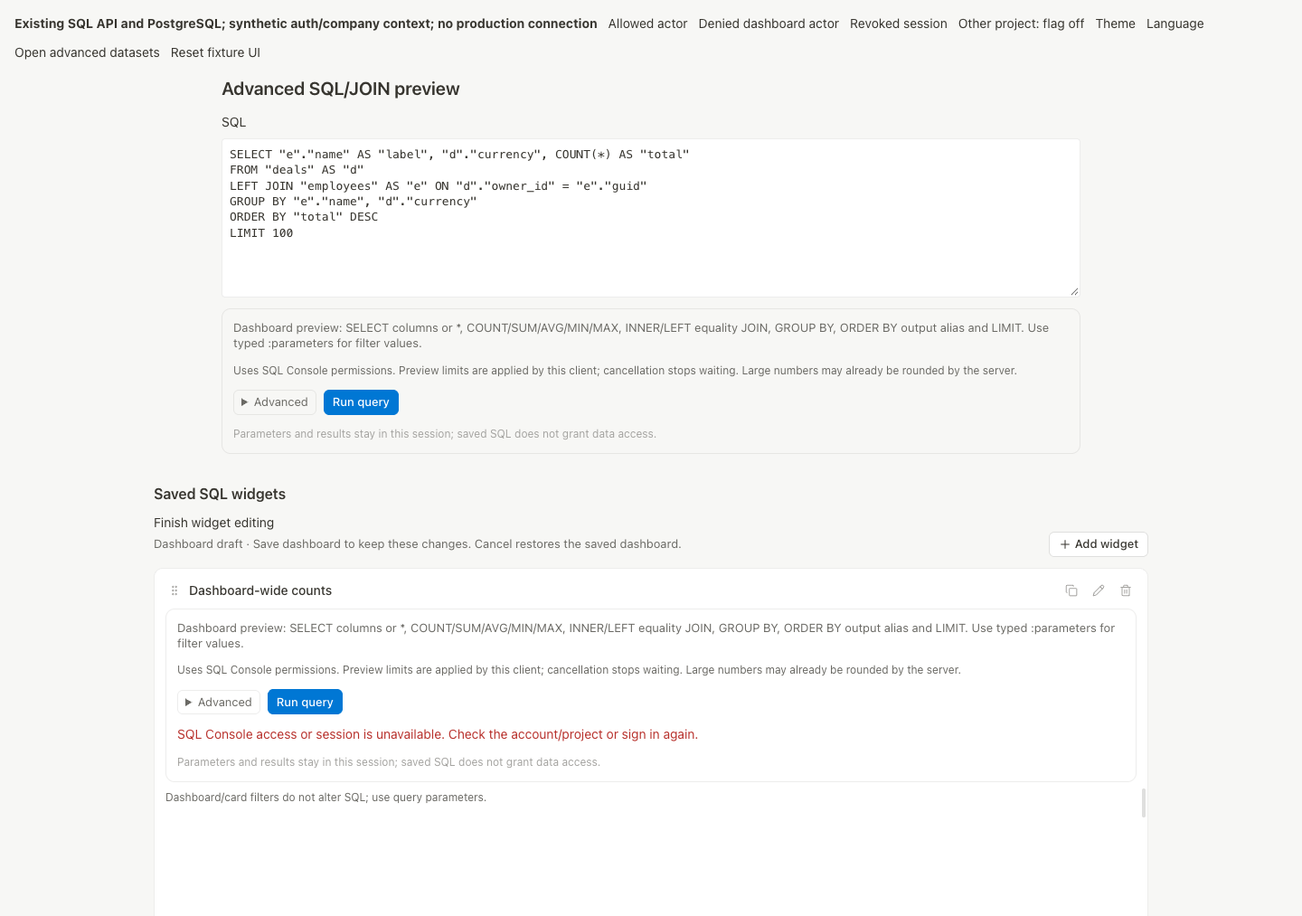
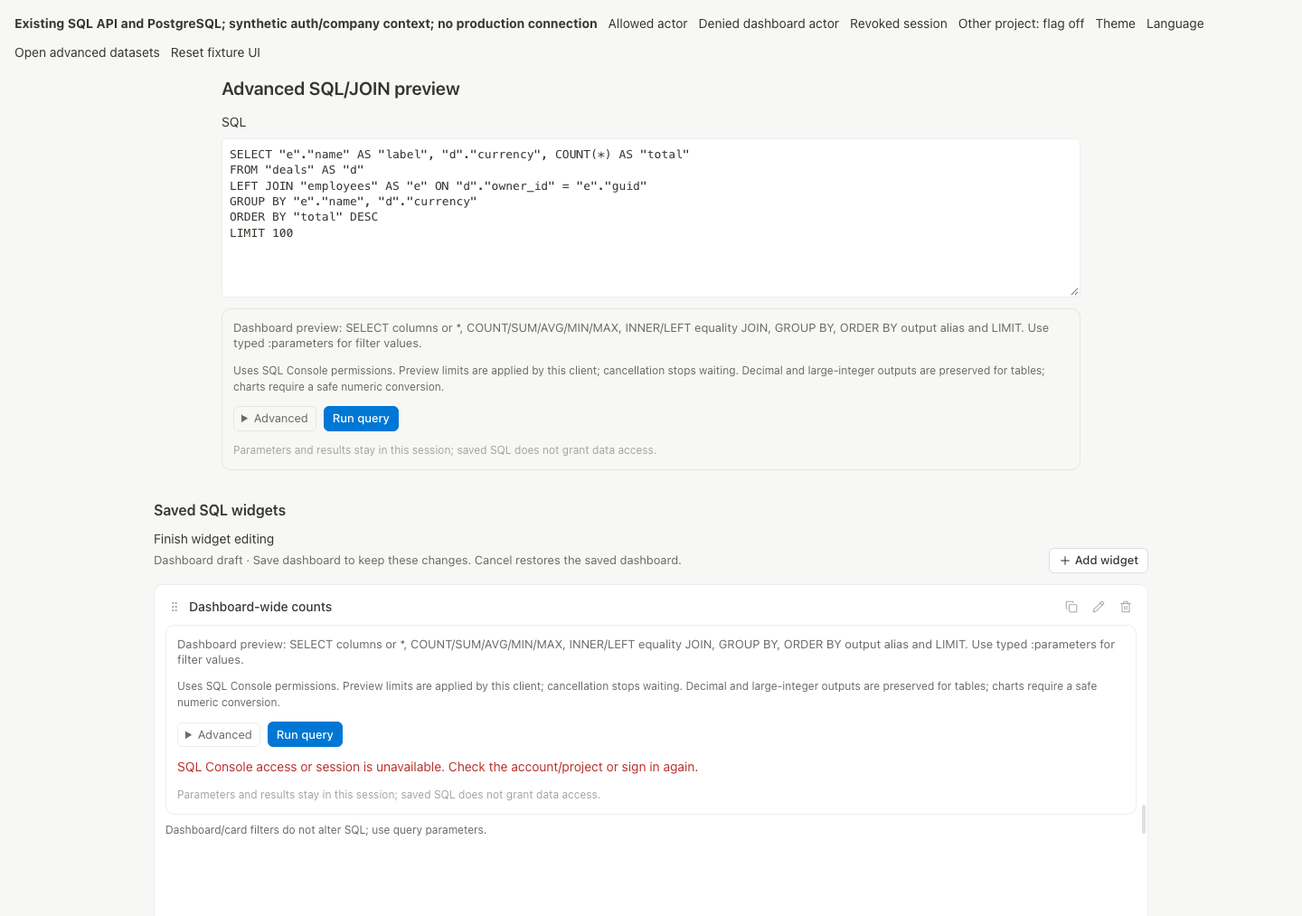
fix: preserve exact numeric SQL results without backend changes

diff --git a/src/features/dashboard/model/sql-copy.ts b/src/features/dashboard/model/sql-copy.ts
@@ -1,12 +1,12 @@
 import type { SQLSupportIssue } from "./sql-query-guidance";
 
 const en = {
-  legacyNotice: "Uses SQL Console permissions. Preview limits are applied by this client; cancellation stops waiting. Large numbers may already be rounded by the server.",
-  datasetHint: "Reuse permitted table sources or advanced SQL queries across widgets. SQL uses your existing SQL Console access.", sqlSource: "SQL (advanced)", title: "SQL result", checking: "Checking execution access…", disabled: "Sign in and select a project/environment to run SQL. You can keep the draft.", run: "Run query", cancel: "Cancel query", table: "Table", chart: "Chart", bar: "Bar", line: "Line", donut: "Donut", group: "Category", measure: "Value", value: "Value", returned: "rows returned", truncated: "Result reached the row limit; refine the query.", limit: "Row limit", empty: "No rows matched this query.", missing: "Provide a value for every parameter.", precision: "These values cannot be shown accurately in a chart. The table shows the values received from the server.", chartHint: "Choose a category and a numeric value returned by SQL.", scope: "Access or project changed. Run the query again.", supported: "Dashboard preview: SELECT columns or *, COUNT/SUM/AVG/MIN/MAX, INNER/LEFT equality JOIN, GROUP BY, ORDER BY output alias and LIMIT. Use typed :parameters for filter values.", examples: "Supported examples", tableExample: "Select columns", totalsExample: "Totals by category", joinExample: "LEFT JOIN totals", grain: "JOIN can repeat source rows. Group at the required level and keep currencies separate.", source: "Parameters and results stay in this session; saved SQL does not grant data access.", syntax: {
+  legacyNotice: "Uses SQL Console permissions. Preview limits are applied by this client; cancellation stops waiting. Decimal and large-integer outputs are preserved for tables; charts require a safe numeric conversion.",
+  datasetHint: "Reuse permitted table sources or advanced SQL queries across widgets. SQL uses your existing SQL Console access.", sqlSource: "SQL (advanced)", title: "SQL result", checking: "Checking execution access…", disabled: "Sign in and select a project/environment to run SQL. You can keep the draft.", run: "Run query", cancel: "Cancel query", table: "Table", chart: "Chart", bar: "Bar", line: "Line", donut: "Donut", group: "Category", measure: "Value", value: "Value", returned: "rows returned", truncated: "Result reached the row limit; refine the query.", limit: "Row limit", empty: "No rows matched this query.", missing: "Provide a value for every parameter.", precision: "These values cannot be shown accurately in a chart. Use the table to retain the SQL numeric text.", chartHint: "Choose a category and a numeric value returned by SQL.", scope: "Access or project changed. Run the query again.", supported: "Dashboard preview: SELECT columns or *, COUNT/SUM/AVG/MIN/MAX, INNER/LEFT equality JOIN, GROUP BY, ORDER BY output alias and LIMIT. Use typed :parameters for filter values.", examples: "Supported examples", tableExample: "Select columns", totalsExample: "Totals by category", joinExample: "LEFT JOIN totals", grain: "JOIN can repeat source rows. Group at the required level and keep currencies separate.", source: "Parameters and results stay in this session; saved SQL does not grant data access.", syntax: {
     star: "SELECT * is not supported. List the fields you want to return; COUNT(*) is supported.", cte: "WITH/CTE queries are not supported in this version. Use one SELECT over project tables.", function: "Only COUNT, SUM, AVG, MIN and MAX are supported. Other SQL functions cannot run here.", nested: "Subqueries are not supported. Use a direct INNER or LEFT JOIN.", write: "This dashboard only sends SELECT previews. The existing SQL Console server has broader access.", clause: "This clause is not supported. Use AND filters, GROUP BY, ORDER BY output aliases and LIMIT.", literal: "Filter values must use typed :parameters instead of SQL string literals.",
   } satisfies Record<SQLSupportIssue, string>,
 };
 type Copy = typeof en;
-const ru: Copy = { ...en, legacyNotice: "Использует права SQL-консоли. Лимит предпросмотра задаёт клиент; отмена прекращает ожидание. Сервер мог уже округлить большие числа.", datasetHint: "Используйте разрешённые таблицы или SQL-запросы в нескольких виджетах. SQL использует ваш существующий доступ к SQL-консоли.", sqlSource: "SQL (расширенный)", title: "Результат SQL", checking: "Проверяем доступ к выполнению…", disabled: "Войдите и выберите проект/окружение для SQL. Черновик можно сохранить.", run: "Выполнить запрос", cancel: "Отменить запрос", table: "Таблица", chart: "График", bar: "Столбцы", line: "Линия", donut: "Кольцо", group: "Категория", measure: "Значение", value: "Значение", returned: "строк получено", truncated: "Достигнут лимит строк; уточните запрос.", limit: "Лимит строк", empty: "По запросу нет строк.", missing: "Задайте значение каждому параметру.", precision: "График потеряет точность этих чисел. Таблица показывает значения, полученные от сервера.", chartHint: "Выберите категорию и числовое значение из результата SQL.", scope: "Доступ или проект изменился. Выполните запрос заново.", supported: "Предпросмотр: SELECT с колонками или *, COUNT/SUM/AVG/MIN/MAX, INNER/LEFT JOIN по равенству, GROUP BY, ORDER BY псевдонима результата и LIMIT. Значения фильтров задаются типизированными :параметрами.", examples: "Примеры поддерживаемых запросов", tableExample: "Выбрать колонки", totalsExample: "Итоги по категории", joinExample: "Итоги с LEFT JOIN", grain: "JOIN может повторять исходные строки. Выберите нужный уровень группировки и разделяйте валюты.", source: "Параметры и результаты остаются в этом сеансе; сохранённый SQL не даёт прав на данные.", syntax: { star: "SELECT * не поддерживается. Перечислите нужные поля; COUNT(*) доступен.", cte: "WITH/CTE пока не поддерживаются. Используйте один SELECT по таблицам проекта.", function: "Доступны только COUNT, SUM, AVG, MIN и MAX. Другие SQL-функции здесь не выполняются.", nested: "Подзапросы пока не поддерживаются. Используйте прямой INNER или LEFT JOIN.", write: "Этот дашборд отправляет только SELECT. Существующий сервер SQL-консоли имеет более широкий доступ.", clause: "Эта конструкция пока не поддерживается. Используйте AND, GROUP BY, ORDER BY псевдонима результата и LIMIT.", literal: "Для значений фильтров используйте типизированные :параметры вместо строковых литералов SQL." } };
-const uz: Copy = { ...en, legacyNotice: "SQL Console huquqlari ishlatiladi. Preview limitini klient qo‘yadi; bekor qilish kutishni to‘xtatadi. Server katta sonlarni yaxlitlagan bo‘lishi mumkin.", datasetHint: "Ruxsat etilgan jadval yoki SQL so‘rovlarini bir nechta vidjetda ishlating. SQL mavjud SQL Console huquqlaringiz bilan bajariladi.", sqlSource: "SQL (kengaytirilgan)", title: "SQL natijasi", checking: "Bajarish huquqi tekshirilmoqda…", disabled: "SQL uchun tizimga kiring va loyiha/muhitni tanlang. Qoralamani saqlash mumkin.", run: "So‘rovni bajarish", cancel: "So‘rovni bekor qilish", table: "Jadval", chart: "Grafik", bar: "Ustunlar", line: "Chiziq", donut: "Halqa", group: "Kategoriya", measure: "Qiymat", value: "Qiymat", returned: "qator qaytdi", truncated: "Qator limiti to‘ldi; so‘rovni aniqlashtiring.", limit: "Qator limiti", empty: "So‘rovga mos qator yo‘q.", missing: "Har bir parametrga qiymat kiriting.", precision: "Grafik bu sonlarning aniqligini yo‘qotadi. Jadval serverdan olingan qiymatlarni ko‘rsatadi.", chartHint: "SQL natijasidan kategoriya va sonli qiymatni tanlang.", scope: "Huquq yoki loyiha o‘zgardi. So‘rovni qayta bajaring.", supported: "Preview uchun SELECT ustunlari yoki *, COUNT/SUM/AVG/MIN/MAX, tenglik bo‘yicha INNER/LEFT JOIN, GROUP BY, natija nomi bo‘yicha ORDER BY va LIMIT qo‘llanadi. Filtr qiymatlari turlangan :parametrlar orqali beriladi.", examples: "Qo‘llanadigan so‘rov namunalari", tableExample: "Ustunlarni tanlash", totalsExample: "Kategoriya bo‘yicha jami", joinExample: "LEFT JOIN orqali jami", grain: "JOIN boshlang‘ich qatorlarni takrorlashi mumkin. Kerakli darajada guruhlang va valyutalarni ajrating.", source: "Parametr va natijalar shu seansda qoladi; saqlangan SQL ma’lumotga huquq bermaydi.", syntax: { star: "SELECT * qo‘llanmaydi. Kerakli maydonlarni sanang; COUNT(*) ishlaydi.", cte: "WITH/CTE hozircha qo‘llanmaydi. Loyiha jadvallari bo‘yicha bitta SELECT yozing.", function: "Faqat COUNT, SUM, AVG, MIN va MAX ishlaydi. Boshqa SQL funksiyalari bu yerda bajarilmaydi.", nested: "Ichki so‘rovlar hozircha qo‘llanmaydi. To‘g‘ridan-to‘g‘ri INNER yoki LEFT JOIN ishlating.", write: "Bu dashboard faqat SELECT yuboradi. Mavjud SQL Console serveri kengroq huquqqa ega.", clause: "Bu konstruksiya hozircha qo‘llanmaydi. AND, GROUP BY, natija nomi bo‘yicha ORDER BY va LIMIT ishlating.", literal: "Filtr qiymatlari uchun SQL matn qiymatlari o‘rniga turlangan :parametrlarni ishlating." } };
+const ru: Copy = { ...en, legacyNotice: "Использует права SQL-консоли. Лимит предпросмотра задаёт клиент; отмена прекращает ожидание. Десятичные и большие целые значения сохраняются для таблиц; график требует безопасного преобразования.", datasetHint: "Используйте разрешённые таблицы или SQL-запросы в нескольких виджетах. SQL использует ваш существующий доступ к SQL-консоли.", sqlSource: "SQL (расширенный)", title: "Результат SQL", checking: "Проверяем доступ к выполнению…", disabled: "Войдите и выберите проект/окружение для SQL. Черновик можно сохранить.", run: "Выполнить запрос", cancel: "Отменить запрос", table: "Таблица", chart: "График", bar: "Столбцы", line: "Линия", donut: "Кольцо", group: "Категория", measure: "Значение", value: "Значение", returned: "строк получено", truncated: "Достигнут лимит строк; уточните запрос.", limit: "Лимит строк", empty: "По запросу нет строк.", missing: "Задайте значение каждому параметру.", precision: "График потеряет точность этих чисел. В таблице сохраняется числовой текст SQL.", chartHint: "Выберите категорию и числовое значение из результата SQL.", scope: "Доступ или проект изменился. Выполните запрос заново.", supported: "Предпросмотр: SELECT с колонками или *, COUNT/SUM/AVG/MIN/MAX, INNER/LEFT JOIN по равенству, GROUP BY, ORDER BY псевдонима результата и LIMIT. Значения фильтров задаются типизированными :параметрами.", examples: "Примеры поддерживаемых запросов", tableExample: "Выбрать колонки", totalsExample: "Итоги по категории", joinExample: "Итоги с LEFT JOIN", grain: "JOIN может повторять исходные строки. Выберите нужный уровень группировки и разделяйте валюты.", source: "Параметры и результаты остаются в этом сеансе; сохранённый SQL не даёт прав на данные.", syntax: { star: "SELECT * не поддерживается. Перечислите нужные поля; COUNT(*) доступен.", cte: "WITH/CTE пока не поддерживаются. Используйте один SELECT по таблицам проекта.", function: "Доступны только COUNT, SUM, AVG, MIN и MAX. Другие SQL-функции здесь не выполняются.", nested: "Подзапросы пока не поддерживаются. Используйте прямой INNER или LEFT JOIN.", write: "Этот дашборд отправляет только SELECT. Существующий сервер SQL-консоли имеет более широкий доступ.", clause: "Эта конструкция пока не поддерживается. Используйте AND, GROUP BY, ORDER BY псевдонима результата и LIMIT.", literal: "Для значений фильтров используйте типизированные :параметры вместо строковых литералов SQL." } };
+const uz: Copy = { ...en, legacyNotice: "SQL Console huquqlari ishlatiladi. Preview limitini klient qo‘yadi; bekor qilish kutishni to‘xtatadi. O‘nli va katta butun natijalar jadval uchun saqlanadi; grafik xavfsiz sonli o‘tkazishni talab qiladi.", datasetHint: "Ruxsat etilgan jadval yoki SQL so‘rovlarini bir nechta vidjetda ishlating. SQL mavjud SQL Console huquqlaringiz bilan bajariladi.", sqlSource: "SQL (kengaytirilgan)", title: "SQL natijasi", checking: "Bajarish huquqi tekshirilmoqda…", disabled: "SQL uchun tizimga kiring va loyiha/muhitni tanlang. Qoralamani saqlash mumkin.", run: "So‘rovni bajarish", cancel: "So‘rovni bekor qilish", table: "Jadval", chart: "Grafik", bar: "Ustunlar", line: "Chiziq", donut: "Halqa", group: "Kategoriya", measure: "Qiymat", value: "Qiymat", returned: "qator qaytdi", truncated: "Qator limiti to‘ldi; so‘rovni aniqlashtiring.", limit: "Qator limiti", empty: "So‘rovga mos qator yo‘q.", missing: "Har bir parametrga qiymat kiriting.", precision: "Grafik bu sonlarning aniqligini yo‘qotadi. SQL sonli matnini saqlash uchun jadvaldan foydalaning.", chartHint: "SQL natijasidan kategoriya va sonli qiymatni tanlang.", scope: "Huquq yoki loyiha o‘zgardi. So‘rovni qayta bajaring.", supported: "Preview uchun SELECT ustunlari yoki *, COUNT/SUM/AVG/MIN/MAX, tenglik bo‘yicha INNER/LEFT JOIN, GROUP BY, natija nomi bo‘yicha ORDER BY va LIMIT qo‘llanadi. Filtr qiymatlari turlangan :parametrlar orqali beriladi.", examples: "Qo‘llanadigan so‘rov namunalari", tableExample: "Ustunlarni tanlash", totalsExample: "Kategoriya bo‘yicha jami", joinExample: "LEFT JOIN orqali jami", grain: "JOIN boshlang‘ich qatorlarni takrorlashi mumkin. Kerakli darajada guruhlang va valyutalarni ajrating.", source: "Parametr va natijalar shu seansda qoladi; saqlangan SQL ma’lumotga huquq bermaydi.", syntax: { star: "SELECT * qo‘llanmaydi. Kerakli maydonlarni sanang; COUNT(*) ishlaydi.", cte: "WITH/CTE hozircha qo‘llanmaydi. Loyiha jadvallari bo‘yicha bitta SELECT yozing.", function: "Faqat COUNT, SUM, AVG, MIN va MAX ishlaydi. Boshqa SQL funksiyalari bu yerda bajarilmaydi.", nested: "Ichki so‘rovlar hozircha qo‘llanmaydi. To‘g‘ridan-to‘g‘ri INNER yoki LEFT JOIN ishlating.", write: "Bu dashboard faqat SELECT yuboradi. Mavjud SQL Console serveri kengroq huquqqa ega.", clause: "Bu konstruksiya hozircha qo‘llanmaydi. AND, GROUP BY, natija nomi bo‘yicha ORDER BY va LIMIT ishlating.", literal: "Filtr qiymatlari uchun SQL matn qiymatlari o‘rniga turlangan :parametrlarni ishlating." } };
 export function sqlCopy(language: string): Copy { return language.startsWith("ru") ? ru : language.startsWith("uz") ? uz : en; }

diff --git a/src/features/dashboard/api/query-execution.test.ts b/src/features/dashboard/api/query-execution.test.ts
@@ -9,18 +9,21 @@ test("dashboard reuses existing SQL endpoint and binds values separately", async
   const post = vi.spyOn(api, "post").mockResolvedValue({ rows: [{ currency: "USD" }], rows_affected: 1, types: { currency: "text" } });
   const controller = new AbortController();
   expect((await executeDashboardQuery(input, controller.signal)).rows).toEqual([{ currency: "USD" }]);
-  const [path, body, options] = post.mock.calls[0]!;
+  expect(post).toHaveBeenCalledTimes(2);
+  const [path, body, options] = post.mock.calls[1]!;
+  expect((post.mock.calls[0]?.[1] as { sql: string }).sql).toContain('AS "dashboard_types" LIMIT 0');
   expect(path).toBe("/v1/custom-endpoints/exec-query");
   expect(body).toEqual({ sql: 'SELECT * FROM (\nSELECT currency FROM deals WHERE currency = $1::text\n) AS "dashboard_preview" LIMIT 101', params: [input.parameters[0]!.value] });
-  expect(options).toEqual({ skipAuthRefresh: true, signal: controller.signal, timeout: 15000 });
+  expect(options).toMatchObject({ skipAuthRefresh: true, signal: controller.signal, timeout: expect.any(Number) });
+  expect(options?.timeout).toBeLessThanOrEqual(15000);
   expect(JSON.stringify(body)).not.toContain("fixture-dashboard-menu");
 });
 
-test("manual SELECT star works without a new backend or capability request", async () => {
+test("manual SELECT star works with a schema preflight and no new backend or capability request", async () => {
   const post = vi.spyOn(api, "post").mockResolvedValue({ rows: [{ guid: "id", title: "Chat" }], rows_affected: 1, types: { guid: "text", title: "varchar" } });
   expect((await executeDashboardQuery({ ...input, sql: "select * from chats", parameters: [] })).rows[0]).toEqual({ guid: "id", title: "Chat" });
-  expect(post).toHaveBeenCalledTimes(1);
-  expect(post.mock.calls[0]?.[1]).toEqual({ sql: 'SELECT * FROM (\nselect * from chats\n) AS "dashboard_preview" LIMIT 101' });
+  expect(post).toHaveBeenCalledTimes(2);
+  expect(post.mock.calls[1]?.[1]).toEqual({ sql: 'SELECT * FROM (\nselect * from chats\n) AS "dashboard_preview" LIMIT 101' });
 });
 
 test("existing server denial is surfaced without retrying another SQL route", async () => {
@@ -31,11 +34,36 @@ test("existing server denial is surfaced without retrying another SQL route", as
 
 test("missing server metadata is not shown as successful empty query", async () => {
   vi.spyOn(api, "post").mockResolvedValue({ rows: null, rows_affected: 0, types: null });
-  await expect(executeDashboardQuery({ ...input, sql: "SELECT missing FROM deals", parameters: [] })).rejects.toThrow("hidden a SQL error");
+  await expect(executeDashboardQuery({ ...input, sql: "SELECT missing FROM deals", parameters: [] })).rejects.toThrow("no column metadata");
 });
 
 test("dashboard write/multi-statement controls stop requests locally", async () => {
   const post = vi.spyOn(api, "post");
   for (const sql of ["DELETE FROM deals", "SELECT guid FROM deals; DELETE FROM deals", "SELECT guid INTO copied FROM deals"]) await expect(executeDashboardQuery({ ...input, sql, parameters: [] })).rejects.toThrow("one SELECT");
   expect(post).not.toHaveBeenCalled();
+});
+
+test("numeric SUM/AVG use native type inspection then exact SQL text transport", async () => {
+  const post = vi.spyOn(api, "post").mockResolvedValueOnce({ rows: null, rows_affected: 0, types: { total: "numeric", count: "int8" } }).mockResolvedValueOnce({ rows: [{ total: "9007199254740993.01", count: "9007199254740993" }], rows_affected: 1, types: { total: "text", count: "text" } });
+  const result = await executeDashboardQuery({ ...input, sql: "SELECT SUM(amount) AS total,COUNT(*) AS count FROM deals", parameters: [] });
+  expect(result.rows).toEqual([{ total: "9007199254740993.01", count: "9007199254740993" }]);
+  const body = post.mock.calls[1]?.[1] as { sql: string };
+  expect(body.sql).toContain('"dashboard_values"."total"::text AS "total"');
+  expect(body.sql).not.toContain("float8");
+  expect(result.columns).toContainEqual({ key: "total", type: "numeric" });
+});
+test("numeric transport or a changing output schema cannot be silently accepted", async () => {
+  const post = vi.spyOn(api, "post").mockResolvedValueOnce({ rows: [], types: { total: "numeric" } }).mockResolvedValueOnce({ rows: [{ total: 12.34 }], types: { total: "text" } });
+  await expect(executeDashboardQuery({ ...input, sql: "SELECT SUM(amount) AS total FROM deals", parameters: [] })).rejects.toThrow("Exact SQL numeric text");
+  post.mockResolvedValueOnce({ rows: [], types: { total: "numeric" } }).mockResolvedValueOnce({ rows: [{ other: "12.34" }], types: { other: "text" } });
+  await expect(executeDashboardQuery({ ...input, sql: "SELECT SUM(amount) AS total FROM deals", parameters: [] })).rejects.toThrow("schema changed");
+});
+test("schema and values share one client timeout budget and cancellation", async () => {
+  const post = vi.spyOn(api, "post").mockResolvedValue({ rows: [], types: { total: "int8" } });
+  vi.spyOn(Date, "now").mockReturnValueOnce(100).mockReturnValueOnce(100).mockReturnValueOnce(15101);
+  await expect(executeDashboardQuery({ ...input, sql: "SELECT COUNT(*) AS total FROM deals", parameters: [] })).rejects.toThrow("timed out");
+  expect(post).toHaveBeenCalledTimes(1);
+  const controller = new AbortController(); controller.abort();
+  await expect(executeDashboardQuery(input, controller.signal)).rejects.toThrow();
+  expect(post).toHaveBeenCalledTimes(1);
 });

diff --git a/src/features/dashboard/model/legacy-sql.ts b/src/features/dashboard/model/legacy-sql.ts
@@ -1,5 +1,5 @@
 import type { SqlResult } from "@/features/settings";
-import { sqlLex } from "./sql-assist";
+import { quoteSqlName, sqlLex } from "./sql-assist";
 import { sqlSupportIssue } from "./sql-query-guidance";
 import { toQueryResult } from "./query-result";
 
@@ -31,9 +31,32 @@ export function prepareDashboardSql(sql: string, parameters: Parameter[], limit:
   return { sql: `SELECT * FROM (\n${text}\n) AS "dashboard_preview" LIMIT ${limit + 1}`, params };
 }
 
-/** Legacy rows are unordered maps; precision already lost by protobuf cannot be restored. */
+const exactNumeric = new Set(["numeric", "int8"]);
+const missingMetadata = "SQL returned no column metadata. The existing endpoint hides SQL/conversion errors; verify syntax and source columns.";
+
+/** LIMIT 0 obtains native output types without serializing numeric result values. */
+export function numericProjection(sql: string, schema: SqlResult) {
+  if (!schema.columns.length) throw new Error(missingMetadata);
+  if (schema.columns.length > 64 || schema.columns.some((key) => !key || ["__proto__", "constructor", "prototype"].includes(key))) throw new Error("Unsupported SQL output schema");
+  const exactColumns = schema.columns.filter((key) => exactNumeric.has(schema.types[key] ?? ""));
+  if (!exactColumns.length) return { sql, exactColumns };
+  const fields = schema.columns.map((key) => `"dashboard_values".${quoteSqlName(key)}${exactColumns.includes(key) ? `::text AS ${quoteSqlName(key)}` : ""}`);
+  return { sql: `SELECT ${fields.join(", ")} FROM (\n${sql}\n) AS "dashboard_values"`, exactColumns };
+}
+
+/** The data response must match the inspected schema and text transport exactly. */
+export function restoreNumericSchema(schema: SqlResult, result: SqlResult, exactColumns: string[]): SqlResult {
+  if (!result.columns.length) throw new Error(missingMetadata);
+  if (result.columns.length !== schema.columns.length || schema.columns.some((key) => !result.columns.includes(key) || result.types[key] !== (exactColumns.includes(key) ? "text" : schema.types[key]))) throw new Error("SQL output schema changed during preview; run again");
+  for (const row of result.rows) for (const key of exactColumns) {
+    if (row[key] !== null && typeof row[key] !== "string") throw new Error("Exact SQL numeric text was not returned");
+  }
+  return { ...result, columns: schema.columns, types: schema.types };
+}
+
+/** Legacy output maps lose SELECT order; native numeric/int8 are transported as SQL text. */
 export function legacyQueryResult(result: SqlResult, limit: number) {
-  if (!result.columns.length) throw new Error("SQL returned no column metadata. The existing endpoint may have hidden a SQL error; check the query in SQL Console.");
+  if (!result.columns.length) throw new Error(missingMetadata);
   if (new TextEncoder().encode(JSON.stringify(result)).length > 2 * 1024 * 1024) throw new Error("SQL preview response is too large");
   const numeric = ["int8", "numeric"], supported = new Set(["int2", "int4", "float4", "float8", ...numeric, "text", "varchar", "bpchar", "uuid", "bool", "date", "timestamp", "timestamptz"]);
   const columns = result.columns.map((key) => {

diff --git a/src/features/dashboard/model/sql-query-guidance.ts b/src/features/dashboard/model/sql-query-guidance.ts
@@ -36,14 +36,14 @@ export function supportedSqlExamples(catalog: DatasetTable[]): SQLExample[] {
   const examples: SQLExample[] = [{ kind: "table", sql: `SELECT ${source.fields.slice(0, 4).map((field) => ref("t", field.slug)).join(", ")}\nFROM ${quoteSqlName(source.slug)} AS "t"\nLIMIT 100` }];
   const numeric = source.fields.find((field) => ["NUMBER", "FLOAT", "FLOAT_NOLIMIT", "MONEY", "INCREMENT_ID"].includes(field.type));
   const dimension = source.fields.find((field) => field.slug === "currency") ?? source.fields.find((field) => ["SINGLE_LINE", "STATUS"].includes(field.type));
-  if (numeric && dimension) examples.push({ kind: "totals", sql: `SELECT ${ref("t", dimension.slug)} AS "label", SUM(${ref("t", numeric.slug)})::float8 AS "total"\nFROM ${quoteSqlName(source.slug)} AS "t"\nGROUP BY ${ref("t", dimension.slug)}\nORDER BY "total" DESC\nLIMIT 100` });
+  if (numeric && dimension) examples.push({ kind: "totals", sql: `SELECT ${ref("t", dimension.slug)} AS "label", SUM(${ref("t", numeric.slug)}) AS "total"\nFROM ${quoteSqlName(source.slug)} AS "t"\nGROUP BY ${ref("t", dimension.slug)}\nORDER BY "total" DESC\nLIMIT 100` });
   const relation = source.fields.find((field) => field.type === "LOOKUP" && field.joinable && field.target);
   const target = catalog.find((table) => table.slug === relation?.target);
   const label = target?.fields.find((field) => ["SINGLE_LINE", "STATUS"].includes(field.type));
   if (relation && target && label && target.fields.some((field) => field.slug === "guid")) {
     const currency = source.fields.find((field) => field.slug === "currency");
     const groups = [ref("related", label.slug), ...(currency ? [ref("t", currency.slug)] : [])];
-    examples.push({ kind: "join", sql: `SELECT ${groups[0]} AS "label"${currency ? `, ${groups[1]} AS "currency"` : ""}, ${numeric ? `SUM(${ref("t", numeric.slug)})::float8` : "COUNT(*)"} AS "total"\nFROM ${quoteSqlName(source.slug)} AS "t"\nLEFT JOIN ${quoteSqlName(target.slug)} AS "related" ON ${ref("t", relation.slug)} = "related"."guid"\nGROUP BY ${groups.join(", ")}\nORDER BY "total" DESC\nLIMIT 100` });
+    examples.push({ kind: "join", sql: `SELECT ${groups[0]} AS "label"${currency ? `, ${groups[1]} AS "currency"` : ""}, ${numeric ? `SUM(${ref("t", numeric.slug)})` : "COUNT(*)"} AS "total"\nFROM ${quoteSqlName(source.slug)} AS "t"\nLEFT JOIN ${quoteSqlName(target.slug)} AS "related" ON ${ref("t", relation.slug)} = "related"."guid"\nGROUP BY ${groups.join(", ")}\nORDER BY "total" DESC\nLIMIT 100` });
   }
   return examples;
 }

diff --git a/src/features/dashboard/model/legacy-sql.test.ts b/src/features/dashboard/model/legacy-sql.test.ts
@@ -1,5 +1,5 @@
 import { expect, test } from "vitest";
-import { legacyQueryResult, prepareDashboardSql } from "./legacy-sql";
+import { legacyQueryResult, numericProjection, prepareDashboardSql, restoreNumericSchema } from "./legacy-sql";
 import { queryChartRows } from "./query-result";
 
 test("preview wrapping retains manual SQL text and protects trailing comments", () => {
@@ -26,4 +26,16 @@ test("legacy map columns, empty schema and extra preview row are normalized hone
 test("unsafe protobuf numbers cannot be advertised as exact chart values", () => {
   const result = legacyQueryResult({ columns: ["total"], rows: [{ total: 9007199254740992 }], types: { total: "int8" }, rowsAffected: 1 }, 100);
   expect(() => queryChartRows(result)).toThrow("precision");
+});
+
+test("SUM/AVG and large integers preserve decimal text while charts reject rounding", () => {
+  const schema = { columns: ["total", "average", "big"], rows: [], types: { total: "numeric", average: "numeric", big: "int8" }, rowsAffected: 0 };
+  const plan = numericProjection("SELECT SUM(amount) AS total,AVG(amount) AS average,MAX(count) AS big FROM deals", schema);
+  expect(plan.sql).not.toContain("float8");
+  expect(plan.exactColumns).toEqual(schema.columns);
+  const result = legacyQueryResult(restoreNumericSchema(schema, { ...schema, types: { total: "text", average: "text", big: "text" }, rows: [{ total: "132.34", average: "44.1133333333333333", big: "9007199254740993" }] }, plan.exactColumns), 100);
+  expect(result.rows[0]).toEqual({ total: "132.34", average: "44.1133333333333333", big: "9007199254740993" });
+  expect(() => queryChartRows(result)).toThrow("precision");
+  const safe = legacyQueryResult(restoreNumericSchema({ ...schema, columns: ["average"], types: { average: "numeric" } }, { ...schema, columns: ["average"], types: { average: "text" }, rows: [{ average: "56.1700000000000000" }] }, ["average"]), 100);
+  expect(queryChartRows(safe)).toEqual([{ average: 56.17 }]);
 });

diff --git a/src/features/dashboard/api/query-execution.ts b/src/features/dashboard/api/query-execution.ts
@@ -1,5 +1,5 @@
 import { execSql } from "@/features/settings";
-import { legacyQueryResult, prepareDashboardSql } from "../model/legacy-sql";
+import { legacyQueryResult, numericProjection, prepareDashboardSql, restoreNumericSchema } from "../model/legacy-sql";
 
 export type QueryExecutionInput = {
   menu_id: string;
@@ -11,6 +11,15 @@ export type QueryExecutionInput = {
 /** Reuse the existing SQL console; its existing server permissions apply unchanged. */
 export async function executeDashboardQuery(input: QueryExecutionInput, signal?: AbortSignal) {
   const request = prepareDashboardSql(input.sql, input.parameters, input.limit);
-  const result = await execSql(request.sql, { signal, timeout: 15000, skipAuthRefresh: true, params: request.params });
-  return legacyQueryResult(result, input.limit);
+  const deadline = Date.now() + 15000;
+  const read = (sql: string) => {
+    signal?.throwIfAborted();
+    const timeout = deadline - Date.now();
+    if (timeout <= 0) throw new Error("SQL preview timed out");
+    return execSql(sql, { signal, timeout, skipAuthRefresh: true, params: request.params });
+  };
+  const schema = await read(`SELECT * FROM (\n${request.sql}\n) AS "dashboard_types" LIMIT 0`);
+  const projection = numericProjection(request.sql, schema);
+  const result = await read(projection.sql);
+  return legacyQueryResult(restoreNumericSchema(schema, result, projection.exactColumns), input.limit);
 }
